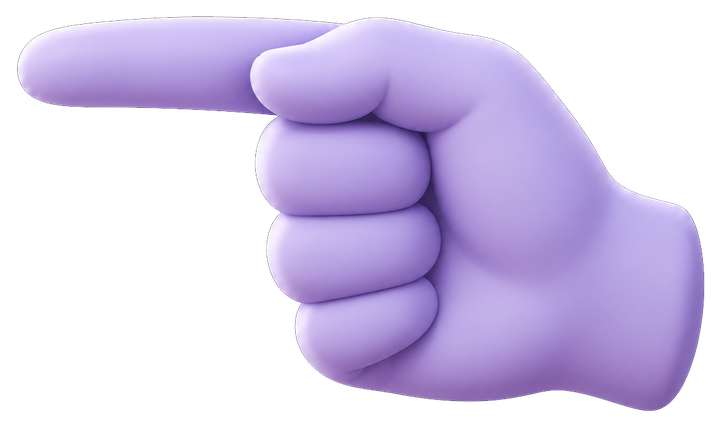
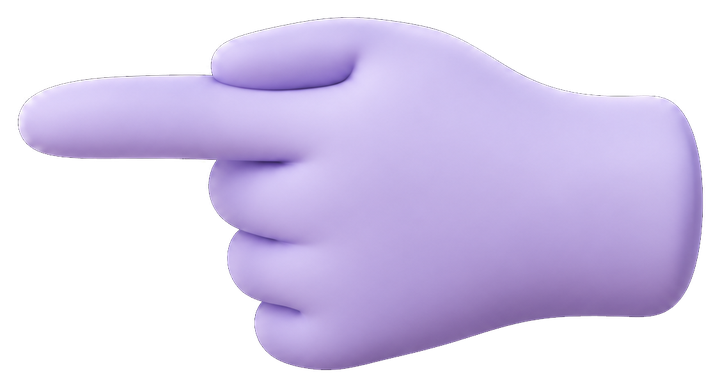
Glove demo as of ghost-demo 582298f: Indranil's notes (no gold lines, no white edge, no dimming, glove further right) and the new G

diff --git a/experiments/asl-tutor/glove.js b/experiments/asl-tutor/glove.js
@@ -2,14 +2,15 @@
  * the idea of thinking that it's a glove that you have to put your hand into"; for Thursday's demo L X G, right hand).
  * Drawing only: it grades nothing, and the hold, the grader and the words are exactly as with the outline.
  *
- * WHERE IT GOES. As the outline (picture-ghost.js): in its fixed spot (Indranil and JT, 20 Oct: a glove that moves would
- * be confusing; "if the size is roughly like their hand, most ideal"), never turning, its size easing to the learner's
- * palm -- the glove's wrist -> middle knuckle (assets/gloves/gloves.json) as long as theirs.
+ * WHERE IT GOES. In a fixed spot (Indranil and JT, 20 Oct: a glove that moves would be confusing; "if the size is
+ * roughly like their hand, most ideal"), a little further right than the outline's (GLOVE_SPOT; Indranil: "being too
+ * centered on the screen is uncomfortable on the elbows"), never turning, its size easing to the learner's palm (as
+ * picture-ghost.js): the glove's wrist -> middle knuckle (assets/gloves/gloves.json) as long as theirs.
  *
  * WHAT IT SAYS. Translucent, so the learner's own hand and skeleton show inside it (Indranil: "like the skeleton is
- * within a glove"), with a crisp rim so its edge is clear; mint when the grader would accept the hand as it is now
- * (the coach's `look`, the same grader as the hold); its rim pulsing amber when the hand is turned wrong; and the golden
- * finger for the finger to change, as with the outline.
+ * within a glove"), and mint when the grader would accept the hand as it is now (the coach's `look`, the same grader as
+ * the hold). Nothing else (Indranil, 20 Oct, after trying it: no gold lines, "the mismatch between skeleton and glove
+ * provides enough corrective feedback"; no white line round the glove): the words under the letter say what to move.
  *
  * HOW IT MOVES (the owner, 20 Oct: "clean animations ... a cute bounce when the sign is completed ... make sure it
  * isn't distracting"). Nothing moves while the learner is trying. A new letter's glove pops in (POP, 0.3 s); when the
@@ -17,11 +18,19 @@
  * hand about its wrist and settling within JELLO.ms, while a mint ring and a few sparkles leave its edge and fade
  * (SPARKS). All of it is over inside the second the accepted letter stays up (flow.js END_DWELL_MS). */
 
-import { anchorOf, spotOf, transformOf, applyTransform, PALM_LENGTH, PALM_AT, SIZE_EASE, dilate, fingerHints, drawGoldFinger } from "./picture-ghost.js";
+import { anchorOf, transformOf, applyTransform, PALM_LENGTH, PALM_AT, SIZE_EASE } from "./picture-ghost.js";
 
-export const GLOVE = Object.freeze({ body: 0.5, rim: 0.95, rimPx: 6, tintEase: 0.22 });
+export const GLOVE = Object.freeze({ body: 0.6, tintEase: 0.22 });
 export const TINT = Object.freeze({ match: "#34d399" });
-const RIM = Object.freeze({ neutral: "#f5f3ff", match: "#a7f3d0", turn: "#fbbf24" });
+const MINT = "#a7f3d0";
+/* The glove's palm on screen, as a fraction of the camera view (x from the left, y from the top), for a right hand;
+ * mirrored for a left one. The outline's is x 0.66 (picture-ghost.js SPOT). */
+export const GLOVE_SPOT = Object.freeze({ x: 0.74, y: 0.55 });
+/** The spot on the canvas (shown mirrored, so the screen's x is flipped), for a canvas W x H and a hand. */
+export function gloveSpot(W, H, hand = "right") {
+  const sx = hand === "left" ? 1 - GLOVE_SPOT.x : GLOVE_SPOT.x;
+  return { x: (1 - sx) * W, y: GLOVE_SPOT.y * H };
+}
 export const POP = Object.freeze({ ms: 320, from: 0.88 });
 export const BOING = Object.freeze({ ms: 240, amp: 0.07 });
 export const JELLO = Object.freeze({ ms: 800, amp: 0.15, periodMs: 270, decayMs: 210 });
@@ -90,44 +99,14 @@ function tinted(img, flip, color) {
   return c;
 }
 
-/* The glove's rim: its own edge, GLOVE.rimPx wide on the inside, in one colour, with a soft dark halo baked in so it
- * reads on a pale wall. */
-function rimOf(body, color) {
-  const w = body.width, h = body.height, n = w * h;
-  const d = body.getContext("2d", { willReadFrequently: true }).getImageData(0, 0, w, h).data;
-  const outside = new Uint8Array(n);
-  for (let i = 0; i < n; i++) outside[i] = d[4 * i + 3] < 128 ? 1 : 0;
-  const near = dilate(outside, w, h, GLOVE.rimPx);
-  const m = document.createElement("canvas");
-  m.width = w; m.height = h;
-  const mg = m.getContext("2d");
-  const out = mg.createImageData(w, h);
-  for (let i = 0; i < n; i++) if (near[i] && d[4 * i + 3] > 0) out.data[4 * i + 3] = d[4 * i + 3];
-  mg.putImageData(out, 0, 0);
-  mg.globalCompositeOperation = "source-in";
-  mg.fillStyle = color;
-  mg.fillRect(0, 0, w, h);
-  const pad = 10, c = document.createElement("canvas");
-  c.width = w + 2 * pad; c.height = h + 2 * pad;
-  const g = c.getContext("2d");
-  g.shadowColor = "rgba(15, 23, 42, 0.7)";
-  g.shadowBlur = 8;
-  g.drawImage(m, pad, pad);
-  g.shadowBlur = 0;
-  g.drawImage(m, pad, pad);
-  c.pad = pad;
-  return c;
-}
-
 /**
  * One per session, the outline's interface: `load(letters)`, `has(letter)`, `reset()` at each trial, `draw` every
  * frame after the canvas was cleared, and `celebrate(tMs)` when the hold is accepted.
- * @param {{gloves: object, templates?: object, hand?: "right"|"left"}} o
- *   gloves: assets/gloves/gloves.json letters; templates: tutor/ghost-hands.json letters, for the golden finger
+ * @param {{gloves: object, hand?: "right"|"left"}} o   gloves: assets/gloves/gloves.json letters
  */
-export function createGloveGhost({ gloves, templates = null, hand = "right" }) {
-  const art = {};   // letter -> { neutral, match, rims: { neutral, match, turn }, pp, len }
-  let cur = null, tint = { g: 0, a: 0 }, shownAt = null, celebratedAt = null;
+export function createGloveGhost({ gloves, hand = "right" }) {
+  const art = {};   // letter -> { neutral, match, pp, len }
+  let cur = null, tint = 0, shownAt = null, celebratedAt = null;
   return {
     async load(letters) {
       await Promise.all([...new Set(letters)].filter((L) => gloves[L]).map(async (L) => {
@@ -138,31 +117,26 @@ export function createGloveGhost({ gloves, templates = null, hand = "right" }) {
         const flip = gloveFlipped(hand);
         const neutral = tinted(img, flip, null), match = tinted(img, flip, TINT.match);
         const pp = glovePoints(gloves[L], hand, img.naturalWidth, img.naturalHeight);
-        art[L] = { neutral, match, pp, len: Math.hypot(pp.M[0] - pp.W[0], pp.M[1] - pp.W[1]),
-          rims: { neutral: rimOf(neutral, RIM.neutral), match: rimOf(neutral, RIM.match), turn: rimOf(neutral, RIM.turn) } };
+        art[L] = { neutral, match, pp, len: Math.hypot(pp.M[0] - pp.W[0], pp.M[1] - pp.W[1]) };
       }));
     },
     has: (L) => !!art[L],
-    reset() { cur = null; tint = { g: 0, a: 0 }; shownAt = null; celebratedAt = null; },
+    reset() { cur = null; tint = 0; shownAt = null; celebratedAt = null; },
     celebrate(tMs) { celebratedAt = tMs; },
-    /* `strength` (0..1): how much of the guidance to show (the demo's ?fade=1); the glove and the golden finger are
-     * drawn that much fainter, and not at all at 0. */
+    /* `strength` (0..1): how much of the guidance to show (the demo's ?fade=1); the glove is drawn that much fainter,
+     * and not at all at 0. */
     draw(ctx, canvas, landmarks, letter, look = null, tMs = 0, strength = 1) {
       const a = art[letter];
       if (!a || !(strength > 0)) return;
       const W = canvas.width, H = canvas.height;
       const green = look?.state === "match" || look?.state === "accepted";
-      const turned = !green && look?.state === "fix" && (look.blocks ?? []).includes("orientation");
       const hand0 = anchorOf(landmarks, W, H);
       // in its spot; only the size eases toward the learner's hand
-      const spot = spotOf(W, H, hand);
+      const spot = gloveSpot(W, H, hand);
       const kWant = ((hand0?.s ?? (cur ? null : H * 0.2)) * PALM_LENGTH) / a.len;
       cur = { x: spot.x, y: spot.y, th: 0, k: cur ? (hand0 ? cur.k + SIZE_EASE * (kWant - cur.k) : cur.k) : kWant };
-      const s = hand0?.s ?? H * 0.2;
-      tint = { g: tint.g + GLOVE.tintEase * ((green ? 1 : 0) - tint.g), a: tint.a + GLOVE.tintEase * ((turned ? 1 : 0) - tint.a) };
+      tint += GLOVE.tintEase * ((green ? 1 : 0) - tint);
       shownAt ??= tMs;
-
-      const gold = fingerHints(ctx, { landmarks, W, H, letter, look, templates, hand, s, strength });
 
       // where it is, then the pop as it appears (about the palm) and the wobble once accepted (about the wrist,
       // squashing along the hand)
@@ -179,7 +153,7 @@ export function createGloveGhost({ gloves, templates = null, hand = "right" }) {
         const u = since / SPARKS.ms, e = easeOut(u), R = a.len * cur.k;
         ctx.save();
         ctx.globalAlpha = 0.6 * (1 - u) * strength;
-        ctx.strokeStyle = RIM.match;
+        ctx.strokeStyle = MINT;
         ctx.lineWidth = Math.max(1, 0.09 * R * (1 - u));
         ctx.beginPath(); ctx.arc(palm[0], palm[1], R * (0.9 + 0.75 * e), 0, 2 * Math.PI); ctx.stroke();
         for (const p of sparks()) {
@@ -201,23 +175,14 @@ export function createGloveGhost({ gloves, templates = null, hand = "right" }) {
       ctx.translate(wrist[0], wrist[1]); ctx.rotate(phi); ctx.scale(wob.along, wob.across); ctx.rotate(-phi); ctx.translate(-wrist[0], -wrist[1]);
       ctx.transform(t.a, t.b, t.c, t.d, t.e, t.f);
       ctx.imageSmoothingQuality = "high";
-      // the body is lavender or mint; turned wrong, only the rim goes amber (and pulses), as the outline's lines did
-      const g = clamp01(tint.g), am = clamp01(tint.a) * (1 - g), base = 1 - g - am;
-      const pulse = 0.65 + 0.35 * Math.sin(tMs / 160);
+      // lavender, or mint as the hand comes right
+      const g = clamp01(tint);
       for (const [img, w] of [[a.neutral, 1 - g], [a.match, g]]) {
         if (w < 0.01) continue;
         ctx.globalAlpha = GLOVE.body * w * strength * fadeIn;
         ctx.drawImage(img, 0, 0);
       }
-      for (const [img, w] of [[a.rims.neutral, base], [a.rims.match, g], [a.rims.turn, am * pulse]]) {
-        if (w < 0.01) continue;
-        ctx.globalAlpha = GLOVE.rim * w * strength * fadeIn;
-        ctx.drawImage(img, -img.pad, -img.pad);
-      }
       ctx.restore();
-
-      if (gold) drawGoldFinger(ctx, gold, tMs, s, strength);
-
     },
   };
 }

diff --git a/experiments/asl-demo.js b/experiments/asl-demo.js
@@ -76,27 +76,34 @@ export const LIVE_TEXT = Object.freeze({
   finger: (f) => `Move your ${f} finger where the gold one goes.`,
   digits: (ds) => `Move your ${digitsPhrase(ds)} where the gold ones go.`,
 });
+/* The same with a glove: no gold lines (Indranil, 20 Oct: "the mismatch between skeleton and glove provides enough
+ * corrective feedback"), so the words say what to match. */
+export const GLOVE_TEXT = Object.freeze({
+  ...LIVE_TEXT,
+  neutral: "Put your hand inside the glove.",
+  orientation: "Turn your hand to match the glove.",
+  thumb: "Move your thumb to match the glove.",
+  finger: (f) => `Move your ${f} finger to match the glove.`,
+  digits: (ds) => `Move your ${digitsPhrase(ds)} to match the glove.`,
+});
 /* ...prefixed, once it has settled (coach.js LOOKS_SETTLE_MS), with the letter the hand looks like instead. */
 export const looksText = (L) => `Looks like ${L}. `;
 /* `noun`: what is drawn for the hand to fit, "outline" or "glove". */
 export function liveText(look, noun = "outline") {
-  const t = liveLine(look);
-  return noun === "outline" ? t : t.replace("the outline", `the ${noun}`);
-}
-function liveLine(look) {
-  if (!look) return LIVE_TEXT.neutral;
-  if (look.state === "match") return LIVE_TEXT.match;
-  if (look.state === "accepted") return LIVE_TEXT.accepted;
+  const T = noun === "glove" ? GLOVE_TEXT : LIVE_TEXT;
+  if (!look) return T.neutral;
+  if (look.state === "match") return T.match;
+  if (look.state === "accepted") return T.accepted;
   const named = look.looksLike ? looksText(look.looksLike) : "";
   // a hand that is another letter, with no one part to change: the shape is what to fix, not where the hand is
-  if (look.state !== "fix" || !look.blocks.length) return named ? named + LIVE_TEXT.reshape : LIVE_TEXT.neutral;
+  if (look.state !== "fix" || !look.blocks.length) return named ? named + T.reshape : T.neutral;
   const b = look.blocks[0];
-  if (b === "orientation") return named + LIVE_TEXT.orientation;
-  if (b === "spread") return named + LIVE_TEXT.spread;
+  if (b === "orientation") return named + T.orientation;
+  if (b === "spread") return named + T.spread;
   const digits = look.blocks.filter((x) => x !== "orientation" && x !== "spread");
-  if (digits.length > 1) return named + LIVE_TEXT.digits(digits);
-  if (b === "thumb") return named + LIVE_TEXT.thumb;
-  return named + LIVE_TEXT.finger(b);
+  if (digits.length > 1) return named + T.digits(digits);
+  if (b === "thumb") return named + T.thumb;
+  return named + T.finger(b);
 }
 /* "index finger and thumb", "middle, ring and pinky fingers": every golden finger, by name. */
 export function digitsPhrase(digits) {
@@ -137,8 +144,9 @@ const FOLLOW = params.get("follow") === "1";
 // the learner's own tracked skeleton, to compare with the outline (Indranil, 19 Oct: "retain the hand skeleton");
 // ?dots=0 hides it
 const DOTS = params.get("dots") !== "0";
-// the room dimmed around the hand (JT, 19 Oct); ?focus=0 starts without
-const FOCUS_ON = params.get("focus") !== "0";
+// the room dimmed around the hand (JT, 19 Oct): with the outline; not with a glove (Indranil, 20 Oct: "the glove and
+// skeleton are prominent enough"); ?focus=1 / 0 either way, or F
+const FOCUS_ON = params.get("focus") === "1" || (params.get("focus") !== "0" && LOOK_STYLE !== "glove");
 // a meter per finger (JT's "symbolic" feedback, thinking it through, 19 Oct): off unless ?meters=1 (or M)
 const METERS_ON = params.get("meters") === "1";
 // what the tutor read on each hold (the CHI 2026 paper's decomposition): off unless ?notes=1 (or T)
@@ -197,7 +205,7 @@ export default {
       : "The letter's picture is on the right, and the same picture is drawn in the camera view, sized to your hand: put your hand into it, turned and shaped to fit."}</p>
     <ul class="demo-legend-list">
       <li><span class="demo-chip demo-chip-neutral"></span> Fit your hand into the ${LOOK_STYLE === "glove" ? "glove" : "picture"}.</li>
-      <li><span class="demo-chip demo-chip-fix"></span> A gold finger shows which finger to move, and where to.</li>
+      ${LOOK_STYLE === "glove" ? "" : `<li><span class="demo-chip demo-chip-fix"></span> A gold finger shows which finger to move, and where to.</li>`}
       <li><span class="demo-chip demo-chip-match"></span> Green: that's the letter. Hold still until the circle fills.</li>
     </ul>
     <p>If your hand makes a different letter, it says which one, and what to change.</p>
@@ -241,7 +249,7 @@ export default {
       <div class="demo-legend" id="demo-legend">
         <span><span class="demo-chip demo-chip-neutral"></span>the shape to make</span>
         <span><span class="demo-chip demo-chip-you"></span>your hand</span>
-        <span><span class="demo-chip demo-chip-fix"></span>change this</span>
+        ${LOOK_STYLE === "glove" ? "" : `<span><span class="demo-chip demo-chip-fix"></span>change this</span>`}
         <span><span class="demo-chip demo-chip-match"></span>that's it</span>
         <span class="demo-keys"><span class="demo-key"><kbd>G</kbd> ${shapeWord()} <span id="demo-ghost-state">on</span></span>
           <span class="demo-key"><kbd>F</kbd> dimming <span id="demo-focus-state">on</span></span>
@@ -495,7 +503,7 @@ async function loadEverything() {
   if (LOOK_STYLE !== "hand") await session.picture.load(session.letters, pictureUrl);
   if (LOOK_STYLE === "glove") {
     const gloves = await get(GLOVES_PATH, "gloves");
-    session.glove = createGloveGhost({ gloves: gloves.letters, templates: ghosts.letters, hand: HAND });
+    session.glove = createGloveGhost({ gloves: gloves.letters, hand: HAND });
     await session.glove.load(session.letters);
   }
   session.motionGuide = createMotionGuide({ hand: HAND });

diff --git a/README.md b/README.md
@@ -3,7 +3,7 @@
 Live: https://shadowcoder1.github.io/asl-fingerspelling-gloves/
 
 A webcam practice page for ASL fingerspelling handshapes, for L, X and G: each letter is a glove drawn in the camera
-view for your hand to fit into; a gold finger shows which finger to move and where; the glove turns green when the
+view for your hand to fit into, with your own hand's skeleton drawn inside it; the glove turns green when the
 handshape is right and wobbles when the letter is made; after a miss it says which letter your hand looked like and
 what to change. Hand tracking is Google's MediaPipe; the grader is a small statistical model fitted on public, openly
 licensed hand-landmark datasets (attributions inside `tutor/model.json`), with OpenFS (KETI) as a second opinion on a
@@ -13,7 +13,7 @@ This teaches fingerspelling handshapes, not ASL. To learn ASL, learn from Deaf t
 can be wrong.
 
 Options: `?letters=LXG` (letters, in that order; letters without a glove get an outline), `&look=outline`,
-`&hand=left`, `&srcmirror=1` (a camera that sends a mirror image). Keys: G shows or hides the glove, F the dimming,
+`&hand=left`, `&srcmirror=1` (a camera that sends a mirror image). Keys: G shows or hides the glove, F dims the room,
 N skips to the next letter.
 
 This folder is a published copy of the running page only.
